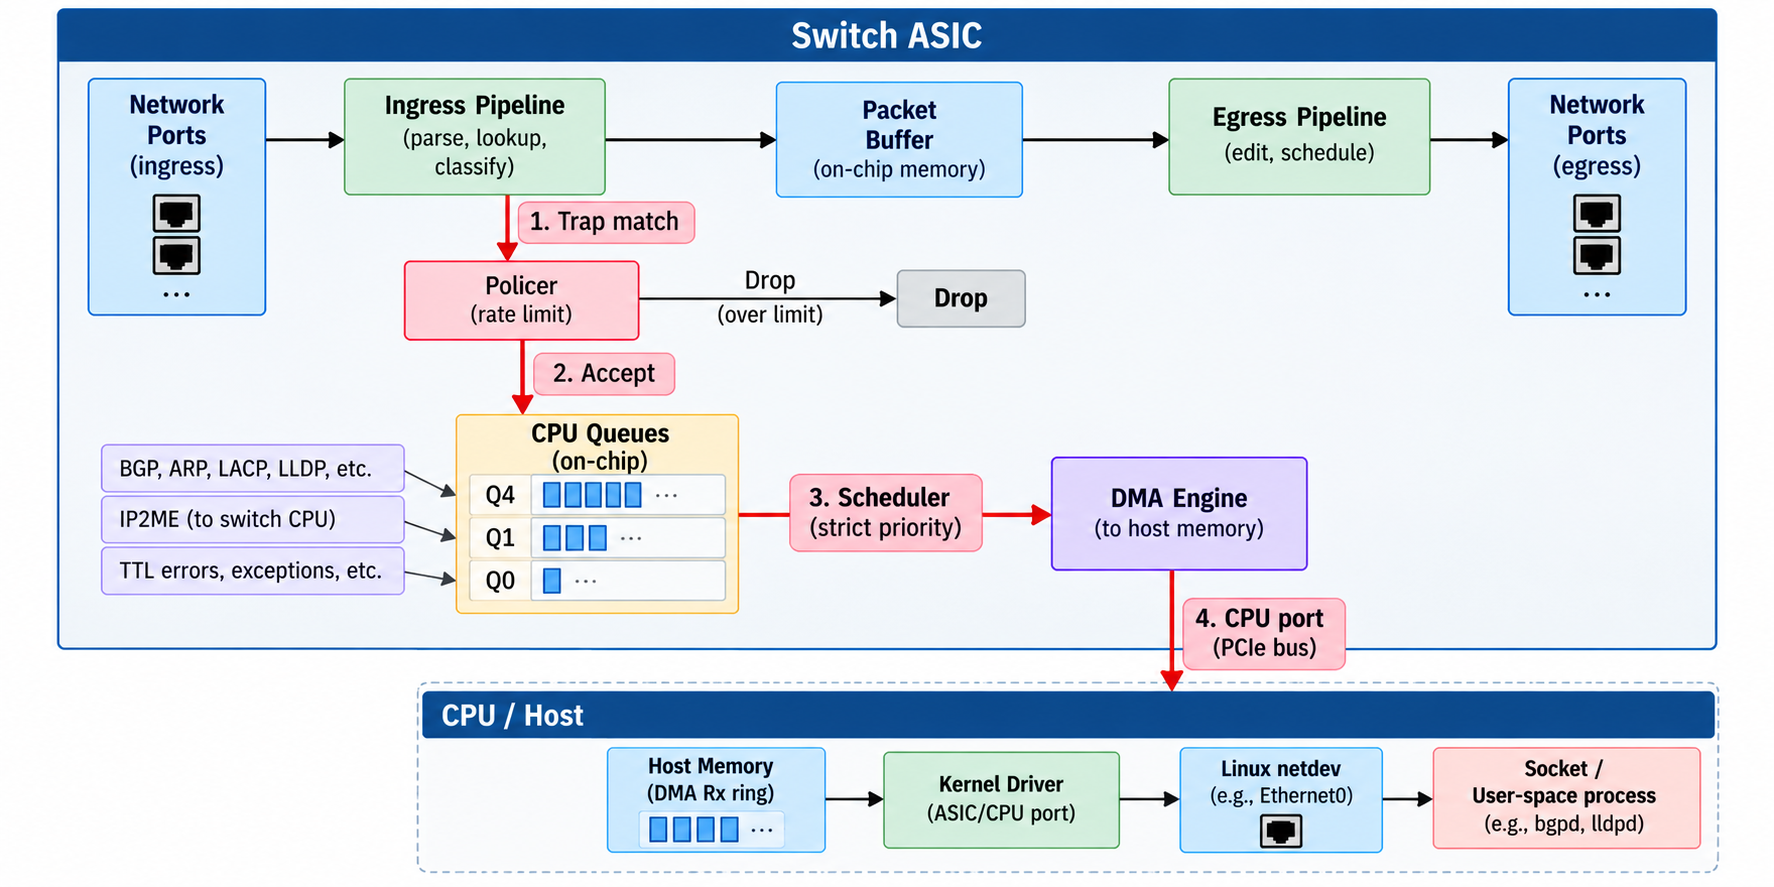
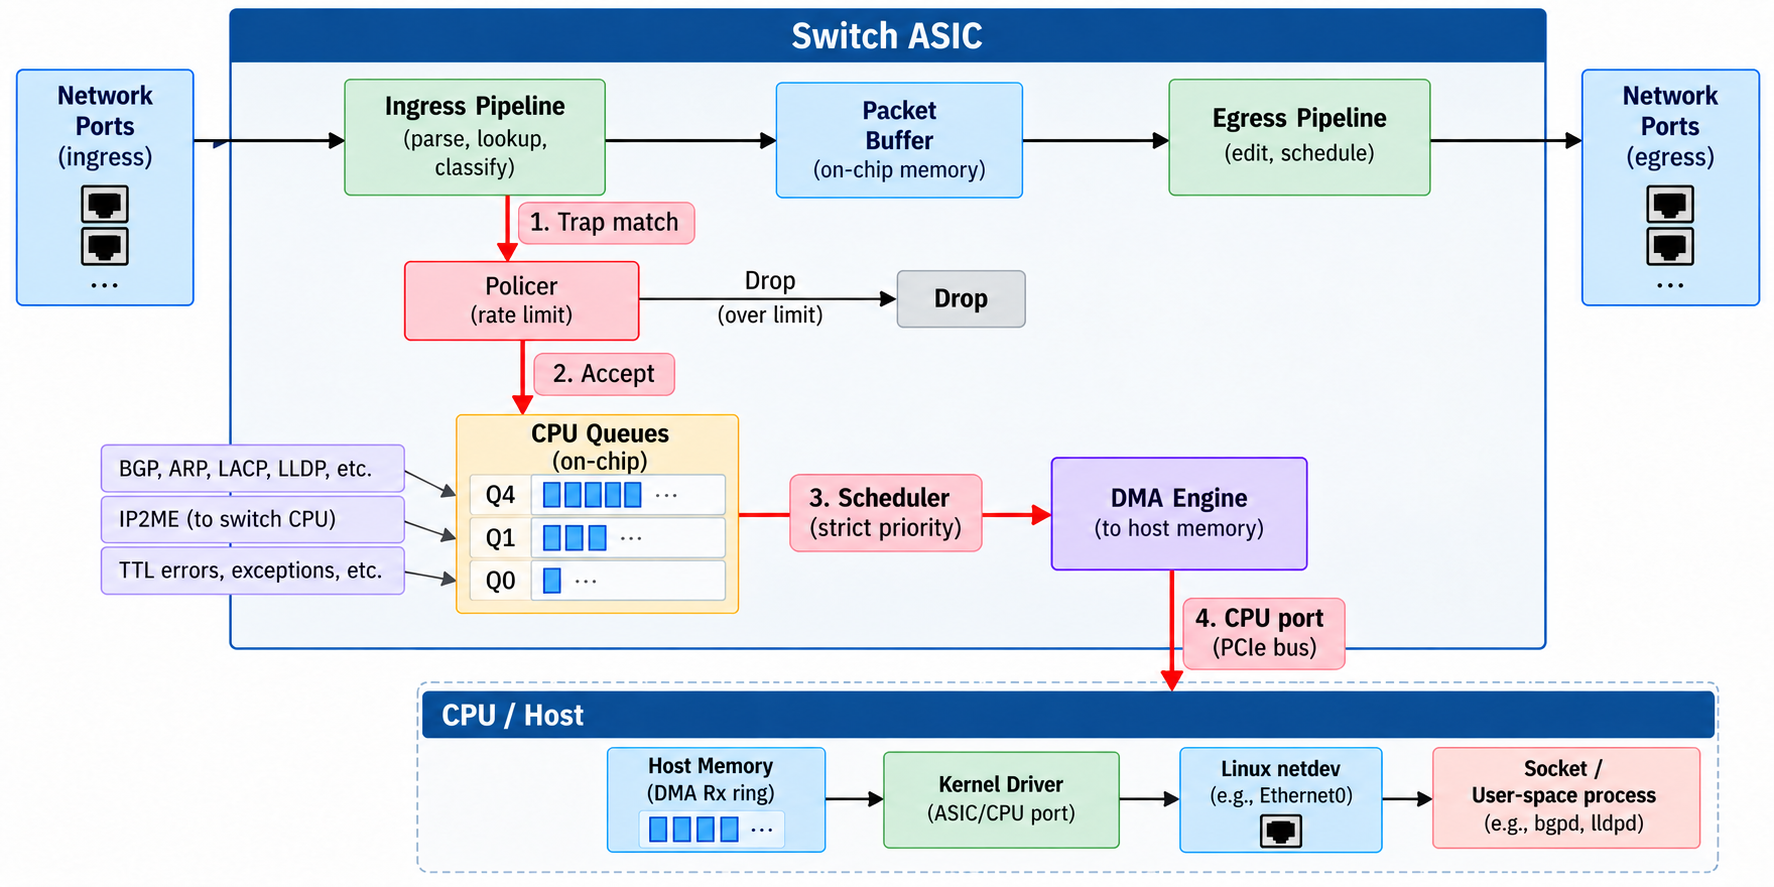
updated acl doc

diff --git a/docs/20_acl.md b/docs/20_acl.md
@@ -5,74 +5,70 @@
 
 ## What Is an ACL?
 
-An Access Control List (ACL) is an ordered set of rules that the switch evaluates against every packet passing through a specific point in the forwarding pipeline. Each rule specifies **match criteria** (which packets to select) and an **action** (what to do with them). The switch tests rules from highest priority to lowest — the first match wins, and its action is applied.
+An Access Control List (ACL) is an ordered set of rules evaluated against packets at a specific enforcement point. Each rule specifies **match criteria** (which packets to select) and an **action** (what to do with them). Rules are evaluated by priority — **higher priority wins** — and only the action from the highest-priority match is applied.
 
-ACLs serve three broad purposes:
-
-- **Security** — block unwanted traffic. For example, drop all inbound packets from a known-bad source prefix, or permit SSH only from a management subnet.
-
-- **Traffic steering** — redirect or copy specific flows. For example, mirror all traffic matching a 5-tuple (source IP, destination IP, source port, destination port, and protocol) to a monitoring port for analysis.
-
-- **QoS marking** — reclassify packets. For example, remark the DSCP (Differentiated Services Code Point) value of traffic from a specific application so downstream QoS policies treat it at the correct priority.
-
-Without ACLs, the switch would forward every packet that has a valid route — there would be no mechanism to enforce security policy, selectively mirror traffic, or override QoS markings in the data plane.
+<img src="../pics/acl_example.png" alt="segment" width="850">
 
 
 ## Two ACL Domains in SONiC
 
-SONiC implements ACLs in two fundamentally different domains, each protecting a different part of the system:
+SONiC implements ACLs in two distinct domains — **data-plane** and **control-plane** — each operating at a different enforcement point. The sections below cover each domain in detail.
 
-|                          | Data-Plane ACLs                                                 | Control-Plane ACLs                         |
-|--------------------------|-----------------------------------------------------------------|--------------------------------------------|
-| **What they protect**    | The forwarding pipeline — traffic transiting through the switch | The Linux network stack — traffic destined for the CPU |
-| **Where rules execute**  | In the ASIC hardware (TCAM)                                     | In the Linux kernel (iptables / ip6tables) |
-| **Programmed by**        | `AclOrch` via SAI                                               | `caclmgrd` via iptables commands |
-| **CONFIG_DB table type** | `L3`, `L3V6`, `MIRROR`, etc.                                    | `CTRLPLANE`                      |
-| **Performance**          | Line rate — millions of packets per second                      | Software rate — thousands of packets per second |
-| **TCAM usage**           | Yes — each rule consumes a TCAM entry                           | No — kernel netfilter, no ASIC resources |
+|                          | Data-Plane ACLs                                   | Control-Plane ACLs                         |
+|--------------------------|---------------------------------------------------|--------------------------------------------|
+| **What they protect**    | Transit traffic flowing through the switch        | Traffic destined for the switch's CPU |
+| **Where rules execute**  | In the ASIC hardware (TCAM)                       | In the Linux kernel (iptables / ip6tables) |
+| **Programmed by**        | `AclOrch` via SAI                                 | `caclmgrd` via iptables commands |
+| **CONFIG_DB table type** | `L3`, `L3V6`, `MIRROR`, etc.                      | `CTRLPLANE`                      |
+| **Performance**          | Line rate — millions of packets per second        | Software rate — thousands of packets per second |
+| **TCAM usage**           | Yes — each rule consumes a TCAM entry             | No — kernel netfilter, no ASIC resources |
 
-The two domains complement each other. Data-plane ACLs filter transit traffic at wire speed inside the ASIC. Control-plane ACLs protect the switch's own management services (SSH, SNMP, BGP) from unauthorized access — filtering by source address, which is something [CoPP](21_punting.md#copp--control-plane-policing) cannot do (CoPP rate-limits punted traffic but does not distinguish by source).
+The two domains complement each other. Data-plane ACLs filter transit traffic at wire speed inside the ASIC. Control-plane ACLs protect the switch's own management services (SSH, SNMP, BGP) from unauthorized access by filtering on source address.
 
 
 ## Data-Plane ACLs
 
-Data-plane ACLs are the primary focus of this document. They are programmed into the ASIC's TCAM and evaluate packets at line rate as part of the hardware forwarding pipeline.
+Data-plane ACLs are the primary focus of this document. They are programmed directly into the ASIC and evaluate **transit traffic** — packets flowing through the switch from one port to another — entirely in hardware at line rate. Without data-plane ACLs, the forwarding pipeline has no policy enforcement: every packet with a valid route is forwarded unconditionally, with no ability to filter, mirror, redirect, or reclassify traffic.
 
-### TCAM — Where ACL Rules Live
+Common use cases:
 
-ACL rules are stored in the ASIC's **TCAM** (Ternary Content-Addressable Memory) — a special on-chip memory that compares a packet header against all stored rules in parallel and returns the highest-priority match in a single clock cycle. This is what makes line-rate ACL evaluation possible. For a general introduction to TCAM and how it compares to other memory types (SRAM, DRAM, Binary CAM), see [Appendix A — Memory Types](A1_memory_types.md#ternary-cam-tcam).
+- **Security filtering** — drop transit traffic from a known-bad source prefix, or block specific protocols (e.g., deny all HTTP/HTTPS from a compromised subnet).
+- **Traffic mirroring** — copy specific flows to a monitoring port for analysis, using ERSPAN or local SPAN sessions.
+- **Traffic redirect** — steer packets matching a policy to a different next hop, enabling policy-based routing.
+- **QoS remarking** — remark the DSCP (Differentiated Services Code Point) value of traffic entering the network so downstream devices apply the correct priority.
+- **Punting custom traffic** — send a copy of matched packets to the CPU for software processing (using the `COPY` action — see [ACL-Based Trapping](21_punting.md#acl-based-trapping)).
 
-**Practical implications for SONiC ACL operators:**
+### Where Data-Plane ACLs Operate
 
-- **TCAM is a finite, shared resource.** ACLs, LPM (Longest Prefix Match) routes, host routes, and some internal system rules all compete for the same TCAM banks. The partitioning between these features is typically fixed at boot based on the platform's SAI profile and cannot be changed at runtime.
+A packet entering the switch passes through a series of hardware stages inside the ASIC. Data-plane ACLs can be applied at up to three points in this pipeline:
 
-- **Entry size varies by match key.** Every ACL rule consumes one or more TCAM entries. Rules with wider match keys consume more space — on some platforms, IPv6 rules take twice the TCAM entries of IPv4 rules because IPv6 addresses are 128 bits vs. IPv4's 32 bits.
+<img src="../pics/data-plane-acl.png" alt="segment" width="850">
 
-- **Resource exhaustion is possible.** If an operator installs too many ACL rules, the ASIC runs out of TCAM entries and new rules fail to program. `AclOrch` handles this gracefully — when `sai_acl_api->create_acl_entry()` returns a resource-exhaustion error, the rule is parked in a retry cache and automatically re-attempted when other rules are removed and TCAM space is freed.
+Each evaluation point corresponds to a SAI ACL stage:
 
-- **SONiC monitors TCAM usage via CRM** (Critical Resource Monitoring). `CrmOrch` periodically queries `SAI_ACL_TABLE_ATTR_AVAILABLE_ACL_ENTRY` for each ACL table and publishes used/available counts to COUNTERS_DB. If usage crosses a configurable threshold (default: 85%), CRM logs a warning. Operators can check usage with:
+| Stage | SAI Constant | Position in Pipeline | Typical Use |
+|-------|-------------|---------------------|-------------|
+| **Pre-Ingress** | `SAI_ACL_STAGE_PRE_INGRESS` | Before L2/L3 forwarding lookup | Early classification — match on DSCP or other header fields to override VRF before routing decides the next hop. Bound to the switch as a whole, not individual ports. |
+| **Ingress** | `SAI_ACL_STAGE_INGRESS` | In the ingress pipeline, typically after L2/L3 forwarding lookup (see note below) | The primary ACL stage — security filtering, mirroring, redirect. The most commonly used stage. |
+| **Egress** | `SAI_ACL_STAGE_EGRESS` | In the egress pipeline, after queuing and before the packet is transmitted | Egress filtering, DSCP remarking. More limited actions than ingress on most platforms. |
 
-    ```bash
-    crm show resources acl table   # TCAM entries used/available per table
-    crm show resources acl group   # ACL table groups used/available
-    ```
+> **ASIC-specific ordering.** The diagram shows a common pipeline order found on major platforms (Broadcom, Cisco, etc.) where the ingress ACL runs after L2/L3 forwarding lookup. However, the exact position of the ingress ACL relative to L2/L3 lookup is ASIC-specific — SAI abstracts this away. What is consistent across all platforms: pre-ingress ACLs always run before forwarding lookup, and egress ACLs always run in the egress pipeline after the packet crosses the switch fabric.
 
-With this hardware context in mind, the following sections walk through how an operator defines ACL rules in SONiC and how they are programmed into the ASIC.
+Not every ASIC supports all three stages. Pre-ingress is not universally available. The supported stages and their available actions vary by vendor — `AclOrch` queries these capabilities via `queryAclActionCapability()` at startup and publishes them to the `SWITCH_CAPABILITY|switch` table in STATE_DB.
 
 ### CONFIG_DB Schema
 
-An operator defines data-plane ACLs using two CONFIG_DB tables:
+An operator defines data-plane ACLs using two CONFIG_DB tables — an **ACL table** that defines where the ACL applies, and **ACL rules** that define what to match and what to do.
 
-**`ACL_TABLE`** — defines the table container:
+**`ACL_TABLE`** — defines the table container. Suppose a network operator wants to block HTTP and HTTPS traffic from `10.99.0.0/16` (a compromised subnet) on two uplink ports:
 
 ```json
 {
     "ACL_TABLE": {
-        "DATAACL": {
+        "BLOCK_BAD_SUBNET": {
             "type": "L3",
             "stage": "ingress",
-            "policy_desc": "Data plane ACL for security",
-            "ports": ["Ethernet0", "Ethernet4", "PortChannel01"]
+            "ports": ["Ethernet0", "Ethernet4"]
         }
     }
 }
@@ -81,33 +77,56 @@ An operator defines data-plane ACLs using two CONFIG_DB tables:
 | Field         | Description |
 |---------------|-------------|
 | `type`        | The table type — determines which match fields and actions are available (see [Table Types](#table-types)) |
-| `stage`       | Pipeline stage: `ingress`, `egress`, or `pre_ingress` |
+| `stage`       | Pipeline stage: `ingress`, `egress`, or `pre_ingress` (see [Where Data-Plane ACLs Operate](#where-data-plane-acls-operate)) |
 | `ports`       | List of ports or port-channels the table is bound to |
 | `policy_desc` | Optional human-readable description |
 
-**`ACL_RULE`** — defines individual rules within a table:
+This table is type `L3` (IPv4 match fields), bound to `Ethernet0` and `Ethernet4` at the `ingress` stage — the ASIC evaluates its rules when packets enter those ports.
+
+**`ACL_RULE`** — defines individual rules within a table. The key format is `<table_name>|<rule_name>`. Each rule specifies a numeric priority (higher values take precedence), one or more match fields, and an action. Continuing the example above — block HTTP/HTTPS from the compromised subnet, allow everything else:
 
 ```json
 {
     "ACL_RULE": {
-        "DATAACL|RULE_10": {
-            "PRIORITY": "10",
-            "SRC_IP": "10.0.0.0/8",
-            "DST_IP": "192.168.1.0/24",
+        "BLOCK_BAD_SUBNET|RULE_100": {
+            "PRIORITY": "100",
+            "SRC_IP": "10.99.0.0/16",
             "IP_PROTOCOL": "6",
             "L4_DST_PORT": "80",
             "PACKET_ACTION": "DROP"
         },
-        "DATAACL|RULE_20": {
-            "PRIORITY": "20",
-            "SRC_IP": "172.16.0.0/12",
+        "BLOCK_BAD_SUBNET|RULE_90": {
+            "PRIORITY": "90",
+            "SRC_IP": "10.99.0.0/16",
+            "IP_PROTOCOL": "6",
+            "L4_DST_PORT": "443",
+            "PACKET_ACTION": "DROP"
+        },
+        "BLOCK_BAD_SUBNET|RULE_1": {
+            "PRIORITY": "1",
             "PACKET_ACTION": "FORWARD"
         }
     }
 }
 ```
 
-The key format is `<table_name>|<rule_name>`. Each rule specifies a priority (higher wins), one or more match fields, and an action.
+The three rules define a priority order:
+
+| Priority      | What it matches                         | Action  |
+|---------------|-----------------------------------------|---------|
+| 100 (highest) | `10.99.0.0/16` → TCP/80 (HTTP)          | DROP    |
+| 90            | `10.99.0.0/16` → TCP/443 (HTTPS)        | DROP    |
+| 1 (lowest)    | Everything (no match fields = wildcard) | FORWARD |
+
+When a packet arrives on Ethernet0, the ASIC compares it against all three rules **in parallel**. All matching rules are found simultaneously, and the **highest-priority match wins**:
+
+- A packet from `10.99.0.1` to TCP port 80 matches RULE_100 **and** RULE_1. Priority 100 wins → **dropped**.
+- A packet from `172.16.1.1` to TCP port 80 only matches RULE_1 → **forwarded**.
+- A packet from `10.99.0.1` to TCP port 22 (SSH) only matches RULE_1 → **forwarded** (only HTTP/HTTPS is blocked).
+
+The lowest-priority rule typically serves as a **catch-all** — a wildcard rule with no match fields that applies to any packet not matched by a higher-priority rule. The catch-all defines the table's default policy: `FORWARD` (permit everything not explicitly denied) or `DROP` (deny everything not explicitly permitted). In this example, RULE_1 at priority 1 forwards all traffic that the two drop rules above it do not match.
+
+> **Note:** If no rule matches at all — including no catch-all — the default behavior is platform-dependent. Most ASICs implicitly drop unmatched traffic within an ACL table, which is why an explicit catch-all is recommended.
 
 ### Table Types
 
@@ -128,18 +147,6 @@ Each ACL table has a **type** that defines which match fields and actions the ta
 > **Custom table types.** Operators can define their own table types via the `ACL_TABLE_TYPE` CONFIG_DB table, specifying arbitrary combinations of match fields, actions, and bind point types. `AclOrch` processes these through `doAclTableTypeTask()`.
 
 Some table types are platform-dependent. For example, `L3V4V6` (combined IPv4/IPv6 in a single table) is only supported on Marvell Memory, XS, CLX, and virtual switch platforms. On other platforms, operators must use separate `L3` and `L3V6` tables. `AclOrch` queries these capabilities at startup and publishes them to STATE_DB.
-
-### Pipeline Stages
-
-ACL tables operate at one of three points in the forwarding pipeline:
-
-| Stage | SAI Constant | When it runs |
-|-------|-------------|-------------|
-| **Ingress** | `SAI_ACL_STAGE_INGRESS` | After the ingress parser but before forwarding lookup — the most common stage for security ACLs |
-| **Egress** | `SAI_ACL_STAGE_EGRESS` | After the forwarding decision, before the packet leaves the egress port — used for egress filtering or DSCP remarking |
-| **Pre-ingress** | `SAI_ACL_STAGE_PRE_INGRESS` | Before the main ingress pipeline — used for early classification before standard L2/L3 processing |
-
-Not every ASIC supports all three stages. The available stages and their supported actions vary by vendor — `AclOrch` queries these capabilities via `queryAclActionCapability()` at startup.
 
 ### Match Fields
 
@@ -207,25 +214,29 @@ Port / LAG / Switch            (bind point — where ACLs attach)
 
 `AclOrch` subscribes to **both** CONFIG_DB and APPL_DB for ACL tables and rules. This dual-source design allows ACLs to come from the operator (CONFIG_DB) or from applications like PBH (Policy-Based Hashing) via APPL_DB:
 
-```
-CONFIG_DB                          APPL_DB
-  ACL_TABLE_TYPE ─┐                  ACL_TABLE_TYPE ─┐
-  ACL_TABLE ──────┤                  ACL_TABLE ──────┤
-  ACL_RULE ───────┘                  ACL_RULE ───────┘
-                   ╲                               ╱
-                    ╲                             ╱
-                     ▼                           ▼
-                          AclOrch (orchagent)
-                                │
-                           SAI ACL API
-                                │
-                            ASIC_DB
-                                │
-                              syncd
-                                │
-                           Vendor SDK
-                                │
-                               ASIC
+```mermaid
+%%{init: {'sequence': {'mirrorActors': false}}}%%
+sequenceDiagram
+    participant CFG as CONFIG_DB
+    participant APP as APPL_DB
+    participant AO as AclOrch
+    participant SAI as SAI ACL API
+    participant ADB as ASIC_DB
+    participant SYN as syncd
+    participant SDK as Vendor SDK
+    participant ASIC as ASIC
+
+    CFG->>AO: ACL_TABLE / ACL_RULE / ACL_TABLE_TYPE
+    APP->>AO: ACL_TABLE / ACL_RULE / ACL_TABLE_TYPE
+
+    Note over AO: parse table attrs, resolve type,<br/>validate match fields and actions
+
+    AO->>SAI: create_acl_table()
+    AO->>SAI: create_acl_entry()
+    SAI->>ADB: serialize SAI objects
+    ADB->>SYN: notify
+    SYN->>SDK: program hardware
+    SDK->>ASIC: install ACL entries
 ```
 
 When `AclOrch` processes a new ACL table entry, it walks the SAI object hierarchy described above:
@@ -253,14 +264,42 @@ Operators can view per-rule hit counts using:
 aclshow -a          # show all ACL rules with hit counts
 ```
 
+### TCAM — Where ACL Rules Live
+
+As shown in the evaluation walkthrough above, the ASIC compares a packet against all rules in a table simultaneously — not one by one. This parallel evaluation is possible because ACL rules are stored in **TCAM** (Ternary Content-Addressable Memory), a special on-chip memory designed for exactly this purpose. Unlike conventional memory (SRAM, DRAM), where a lookup requires an address, TCAM takes a packet header as input and compares it against every stored entry at once, returning the highest-priority match in a single clock cycle. This is what enables ACL evaluation at line rate without slowing down the forwarding pipeline. For a deeper look at TCAM and how it compares to other memory types, see [Appendix A — Memory Types](A1_memory_types.md#ternary-cam-tcam).
+
+**Practical implications for SONiC ACL operators:**
+
+- **TCAM is a finite, shared resource.** ACLs, LPM (Longest Prefix Match) routes, host routes, and some internal system rules all compete for the same TCAM banks. The partitioning between these features is typically fixed at boot based on the platform's SAI profile and cannot be changed at runtime.
+
+- **Entry size varies by match key.** Every ACL rule consumes one or more TCAM entries. Rules with wider match keys consume more space — on some platforms, IPv6 rules take twice the TCAM entries of IPv4 rules because IPv6 addresses are 128 bits vs. IPv4's 32 bits.
+
+- **Resource exhaustion is possible.** If an operator installs too many ACL rules, the ASIC runs out of TCAM entries and new rules fail to program. `AclOrch` handles this gracefully — when `sai_acl_api->create_acl_entry()` returns a resource-exhaustion error, the rule is parked in a retry cache and automatically re-attempted when other rules are removed and TCAM space is freed.
+
+- **SONiC monitors TCAM usage via CRM** (Critical Resource Monitoring). `CrmOrch` periodically queries `SAI_ACL_TABLE_ATTR_AVAILABLE_ACL_ENTRY` for each ACL table and publishes used/available counts to COUNTERS_DB. If usage crosses a configurable threshold (default: 85%), CRM logs a warning. Operators can check usage with:
+
+    ```bash
+    crm show resources acl table   # TCAM entries used/available per table
+    crm show resources acl group   # ACL table groups used/available
+    ```
+
+With this hardware context in mind, the following sections walk through how an operator defines ACL rules in SONiC and how they are programmed into the ASIC.
+
 
 ## Control-Plane ACLs (caclmgrd)
 
-Control-plane ACLs protect the switch's own management services — SSH, SNMP, NTP, and others — by filtering traffic destined for the CPU's Linux network stack. Unlike data-plane ACLs, these rules are **not** programmed into the ASIC. They are implemented as Linux `iptables` and `ip6tables` rules running in the kernel.
+Control-plane ACLs protect the switch's own management services — SSH, SNMP, NTP, and others — by filtering traffic destined for the CPU's Linux network stack. Without them, the switch would accept every connection to its management services — there would be no way to control which sources can reach the CPU. Unlike data-plane ACLs, these rules are **not** programmed into the ASIC. They are implemented as Linux `iptables` and `ip6tables` rules running in the kernel.
 
-### Why a Separate Mechanism?
+Common use cases:
 
-[CoPP](21_punting.md#copp--control-plane-policing) rate-limits punted traffic inside the ASIC to prevent CPU overload, but it does not perform source-based filtering — it cannot express a policy like "allow SSH only from 10.0.0.0/8." That kind of per-source, per-service access control requires inspecting the packet after it arrives at the CPU, which is exactly what `iptables` does. Control-plane ACLs fill this gap.
+- **SSH access control** — allow SSH connections only from the management subnet, dropping all other sources.
+- **SNMP restriction** — limit SNMP queries to authorized monitoring servers.
+- **NTP protection** — restrict NTP synchronization to trusted time servers only.
+- **General service lockdown** — block unauthorized access to any management service listening on the CPU.
+
+### Why Not Just Use CoPP?
+
+Control-plane ACLs fill a gap that [CoPP](21_punting.md#copp--control-plane-policing) cannot. CoPP rate-limits punted traffic inside the ASIC — it can slow down a flood of ARP or BGP packets — but it treats all sources equally. It cannot express a policy like "allow SSH only from 10.0.0.0/8." That kind of per-source access control requires inspecting the packet after it reaches the CPU, which is exactly what control-plane ACLs do.
 
 ### How caclmgrd Works
 
